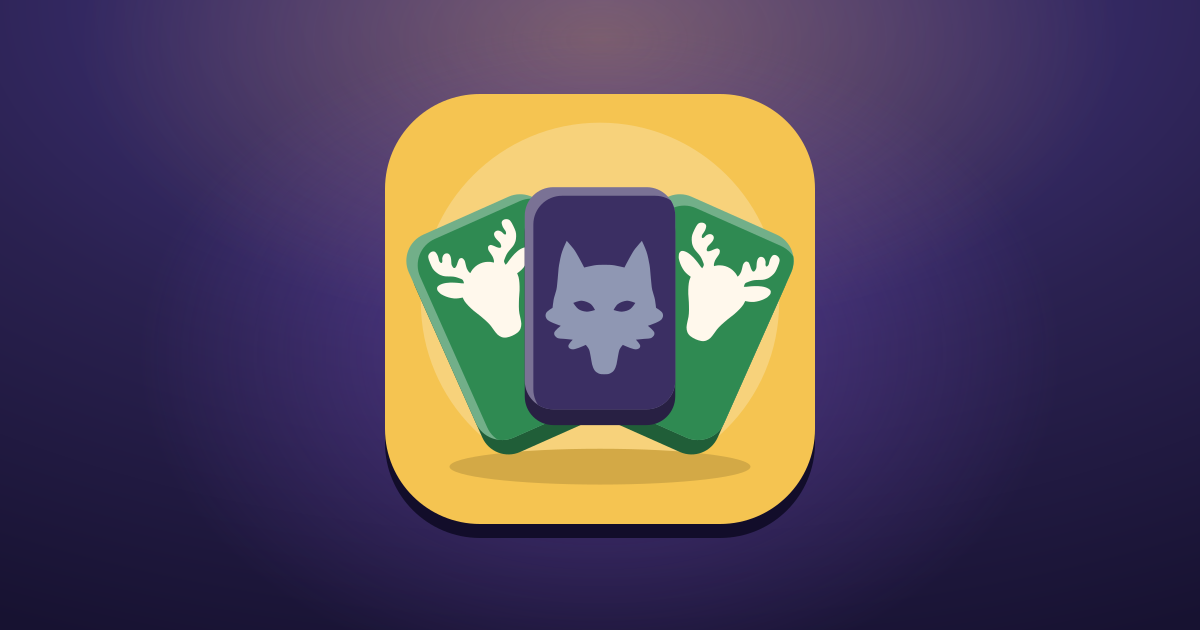
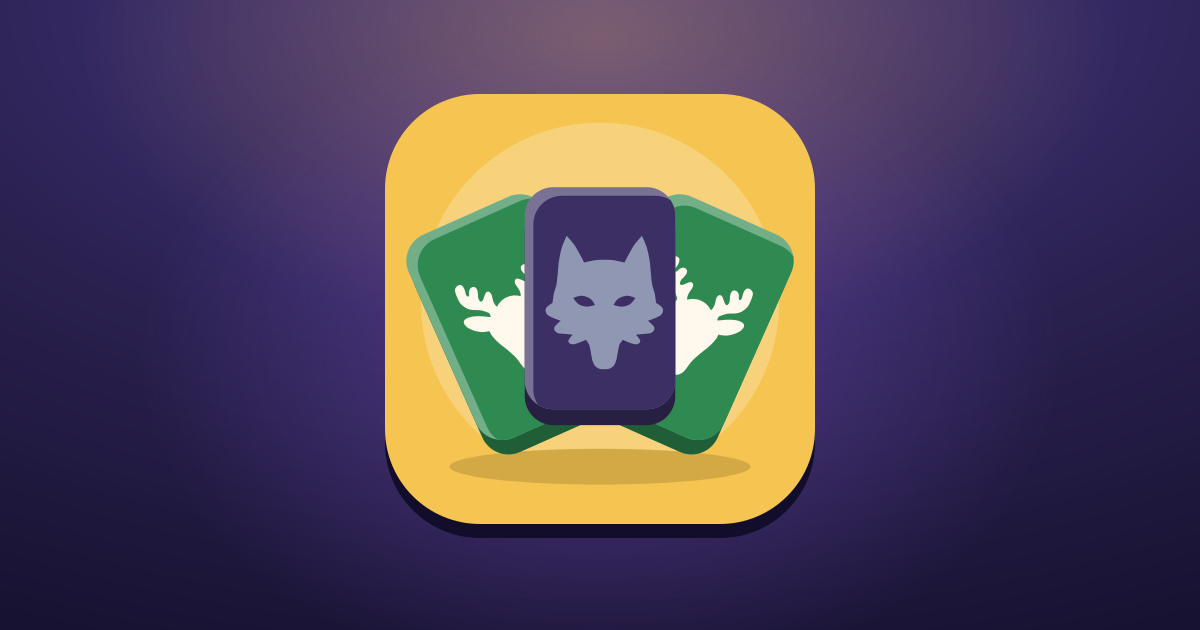
Xapînok: every head centred on its card (#947)
Claude-Session: https://claude.ai/code/session_011eKY4xnopr5UAa1vaHj4wo

Changed region(s): [[0.3392, 0.3317, 0.6475, 0.6032], [0.4933, 0.573, 0.5242, 0.6032]]

diff --git a/shared/src/art/impostor.ts b/shared/src/art/impostor.ts
@@ -645,40 +645,42 @@ export const DEER_CARD: Tones = tones(MEADOW);
 
 /** A card's lit edge, down its left side and along its top. */
 export const CARD_RIM = 2.4;
-/** The space a head keeps clear inside its card's face, so no antler, ear or cheek reaches the rim or the edge. */
+/** The least space a head keeps clear inside its card's face, so no antler, ear or cheek reaches the rim or the edge. */
 export const FACE_CLEAR = 3;
-/** How far the deer reaches from its middle at scale 1, to either side and upward, measured on its outline. */
-const DEER_SIDE = HEAD_SCALE * Math.max(...DEER_HALF.map(([x]) => 60 - x));
-const DEER_UP = HEAD_SCALE * Math.max(...DEER_HALF.map(([, y]) => 58 - y));
+/** How far each head reaches above and below its middle at scale 1, measured on its outline. */
+const reachOf = (half: readonly Knot[]): { up: number; down: number } => ({
+  up: HEAD_SCALE * Math.max(...half.map(([, y]) => 58 - y)),
+  down: HEAD_SCALE * Math.max(...half.map(([, y]) => y - 58)),
+});
+const REACH = { deer: reachOf(DEER_HALF), wolf: reachOf(WOLF_HALF) } as const;
 
 /** The coloured face of a card, inside its rim. */
 export interface CardFace {
   left: number;
   top: number;
   right: number;
+  bottom: number;
 }
 
-/**
- * A deer of `scale` on a card in a fan: high up and toward the card's outer `side` (−1 left, 1 right), as far as its
- * clear space allows, which is where the card held in front of it hides the least.
- */
-export function deerOnCard(dr: Drawing, face: CardFace, scale: number, side: -1 | 1): void {
-  const across = DEER_SIDE * scale + FACE_CLEAR;
-  deerHead(dr, side < 0 ? face.left + across : face.right - across, face.top + FACE_CLEAR + DEER_UP * scale, scale);
+/** A deer or the wolf of `scale` in the middle of a card's face, its outline centred across and down. */
+export function headOnCard(dr: Drawing, who: 'deer' | 'wolf', face: CardFace, scale: number): void {
+  const { up, down } = REACH[who];
+  const middle = (face.top + face.bottom + (up - down) * scale) / 2;
+  (who === 'deer' ? deerHead : wolfHead)(dr, (face.left + face.right) / 2, middle, scale);
 }
 
 /** A standing playing card with its face in `face`, turned `angle` about the foot of the fan; `mark` draws on its face. */
 function card(dr: Drawing, x: number, y: number, w: number, h: number, face: Tones, angle = 0, mark?: (on: CardFace) => void): void {
   turned(dr, angle, 60, 118, () => {
     form(dr, rr(x, y, w, h, 7), face, 4, CARD_RIM);
-    mark?.({ left: x + CARD_RIM, top: y + CARD_RIM, right: x + w });
+    mark?.({ left: x + CARD_RIM, top: y + CARD_RIM, right: x + w, bottom: y + h });
   });
 }
 
 /** Classic: everyone holds the same word, deer all, and one card is the wolf's. */
 const classic: Draw = (dr) => {
-  for (const side of [-1, 1] as const) card(dr, 43, 38, 34, 50, DEER_CARD, side * 31, (on) => deerOnCard(dr, on, 0.4, side));
-  card(dr, 40, 22, 40, 58, tones(NIGHT), 0, (on) => wolfHead(dr, (on.left + on.right) / 2, 52, 0.53));
+  for (const angle of [-31, 31]) card(dr, 43, 38, 34, 50, DEER_CARD, angle, (on) => headOnCard(dr, 'deer', on, 0.4));
+  card(dr, 40, 22, 40, 58, tones(NIGHT), 0, (on) => headOnCard(dr, 'wolf', on, 0.53));
 };
 
 /** In the dark: the impostor is told nothing. A night with a moon. */
@@ -722,8 +724,8 @@ export function impostorWaySvg(opts: ImpostorArtOptions & { way: ImpostorWay }):
 
 /** The game itself: five cards, four deer and the wolf in the middle. */
 const cards: Draw = (dr) => {
-  for (const a of [-34, -17, 17, 34]) card(dr, 44, 38, 32, 46, DEER_CARD, a, (on) => deerOnCard(dr, on, 0.38, a < 0 ? -1 : 1));
-  card(dr, 41, 20, 38, 56, tones(NIGHT), 0, (on) => wolfHead(dr, (on.left + on.right) / 2, 50, 0.5));
+  for (const a of [-34, -17, 17, 34]) card(dr, 44, 38, 32, 46, DEER_CARD, a, (on) => headOnCard(dr, 'deer', on, 0.38));
+  card(dr, 41, 20, 38, 56, tones(NIGHT), 0, (on) => headOnCard(dr, 'wolf', on, 0.5));
 };
 
 /** A card's back: a gold question on the night, the same for everyone, so it gives nothing away. */

diff --git a/shared/src/art/game-covers.ts b/shared/src/art/game-covers.ts
@@ -10,7 +10,7 @@ import { deerSilhouetteSvg } from '../games/who-am-i/silhouette.js';
 import { GAME_NAMES } from '../games/names.js';
 import { dab, dot, fill, form, line, ring, rr, tones, turned, type Tones } from './cutout.js';
 import type { Cover, Key, Part } from './game-acting.js';
-import { CARD_RIM, DEER_CARD, deerOnCard, wolfHead, type CardFace } from './impostor.js';
+import { CARD_RIM, DEER_CARD, headOnCard, type CardFace } from './impostor.js';
 import { songbird } from './songbird.js';
 import { letter, letterWidth, oval } from './ink.js';
 import { Drawing, n, tint } from './svg.js';
@@ -446,7 +446,7 @@ const FAN = [60, 118] as const;
 
 /** Each card in the fan, upright, and its coloured face inside the rim. */
 const CARD = [39, 26, 42, 62] as const;
-const CARD_FACE: CardFace = { left: CARD[0] + CARD_RIM, top: CARD[1] + CARD_RIM, right: CARD[0] + CARD[2] };
+const CARD_FACE: CardFace = { left: CARD[0] + CARD_RIM, top: CARD[1] + CARD_RIM, right: CARD[0] + CARD[2], bottom: CARD[1] + CARD[3] };
 
 /** One card standing in the fan, turned `angle` about its foot. */
 function card(dr: Drawing, angle: number, face: Tones, mark: () => void): void {
@@ -455,8 +455,8 @@ function card(dr: Drawing, angle: number, face: Tones, mark: () => void): void {
     mark();
   });
 }
-/** A player's card: the deer on meadow green, as in the game, where the wolf's card in front leaves it in view. */
-const deerCard = (dr: Drawing, angle: number): void => card(dr, angle, DEER_CARD, () => deerOnCard(dr, CARD_FACE, 0.46, angle < 0 ? -1 : 1));
+/** A player's card: the deer on meadow green, as in the game. */
+const deerCard = (dr: Drawing, angle: number): void => card(dr, angle, DEER_CARD, () => headOnCard(dr, 'deer', CARD_FACE, 0.46));
 
 /** The impostor: a hand of three cards, two deer and the wolf in the middle; the wolf rises, looks round and slips back. */
 const impostor: Cover = {
@@ -468,7 +468,7 @@ const impostor: Cover = {
     { draw: (dr) => deerCard(dr, 24), pivot: FAN, keys: [[0, {}], [0.14, {}, 'hold'], [0.22, { r: 5 }, 'out'], [0.62, {}, 'hold'], [0.7, { r: 0 }, 'inOut'], [1, {}, 'hold']] },
     {
       draw: (dr) =>
-        card(dr, 0, tones(NIGHT), () => wolfHead(dr, (CARD_FACE.left + CARD_FACE.right) / 2, 58, 0.56)),
+        card(dr, 0, tones(NIGHT), () => headOnCard(dr, 'wolf', CARD_FACE, 0.56)),
       pivot: [60, 88],
       keys: [[0, {}], [0.16, {}, 'hold'], [0.24, { y: -9 }, 'out'], [0.32, { r: -5 }, 'inOut'], [0.42, { r: 5 }, 'inOut'], [0.5, { r: 0 }, 'inOut'], [0.6, { y: 0 }, 'back'], [1, {}, 'hold']],
     },

diff --git a/shared/src/art/art.test.ts b/shared/src/art/art.test.ts
@@ -1192,7 +1192,7 @@ describe('Xapînok’s pictures', () => {
     expect(impostorWaySvg({ way: 'odd', idPrefix: 'mine' })).toContain('id="minet"');
   });
 
-  it('keeps every head on a fanned card inside the card’s face, clear of its rim and edges', () => {
+  it('centres every head on a fanned card’s face, clear of its rim and edges', () => {
     // A card is a turned group: its outline first (M x+r y H x+w-r A r … V y+h-r …) and its head last.
     const card = /<g transform="rotate\([^)]+\)"><path d="M([\d.]+) ([\d.]+)H([\d.]+)A([\d.]+) [^V]+V([\d.]+).*?<path d="(M60,[^"]+)"[^>]*transform="translate\(([\d.]+) ([\d.]+)\) scale\(([\d.]+)\) translate\(-60 -58\)"\/><\/g>/g;
     /** An outline's knots, where each of its curves starts and ends, which is its edge near enough. */
@@ -1220,10 +1220,13 @@ describe('Xapînok’s pictures', () => {
       const outline = knots(m[6]!).map(([x, y]) => [cx + k * (x - 60), cy + k * (y - 58)] as const);
       const xs = outline.map(([x]) => x);
       const ys = outline.map(([, y]) => y);
-      expect(Math.min(...xs)).toBeGreaterThanOrEqual(mx - r + CARD_RIM + clear);
-      expect(Math.max(...xs)).toBeLessThanOrEqual(hx + r - clear);
-      expect(Math.min(...ys)).toBeGreaterThanOrEqual(top + CARD_RIM + clear);
-      expect(Math.max(...ys)).toBeLessThanOrEqual(vy + r - clear);
+      const face = { left: mx - r + CARD_RIM, top: top + CARD_RIM, right: hx + r, bottom: vy + r };
+      expect(Math.min(...xs)).toBeGreaterThanOrEqual(face.left + clear);
+      expect(Math.max(...xs)).toBeLessThanOrEqual(face.right - clear);
+      expect(Math.min(...ys)).toBeGreaterThanOrEqual(face.top + clear);
+      expect(Math.max(...ys)).toBeLessThanOrEqual(face.bottom - clear);
+      expect(Math.abs((Math.min(...xs) + Math.max(...xs)) / 2 - (face.left + face.right) / 2)).toBeLessThan(0.3);
+      expect(Math.abs((Math.min(...ys) + Math.max(...ys)) / 2 - (face.top + face.bottom) / 2)).toBeLessThan(0.3);
     }
   });
 
